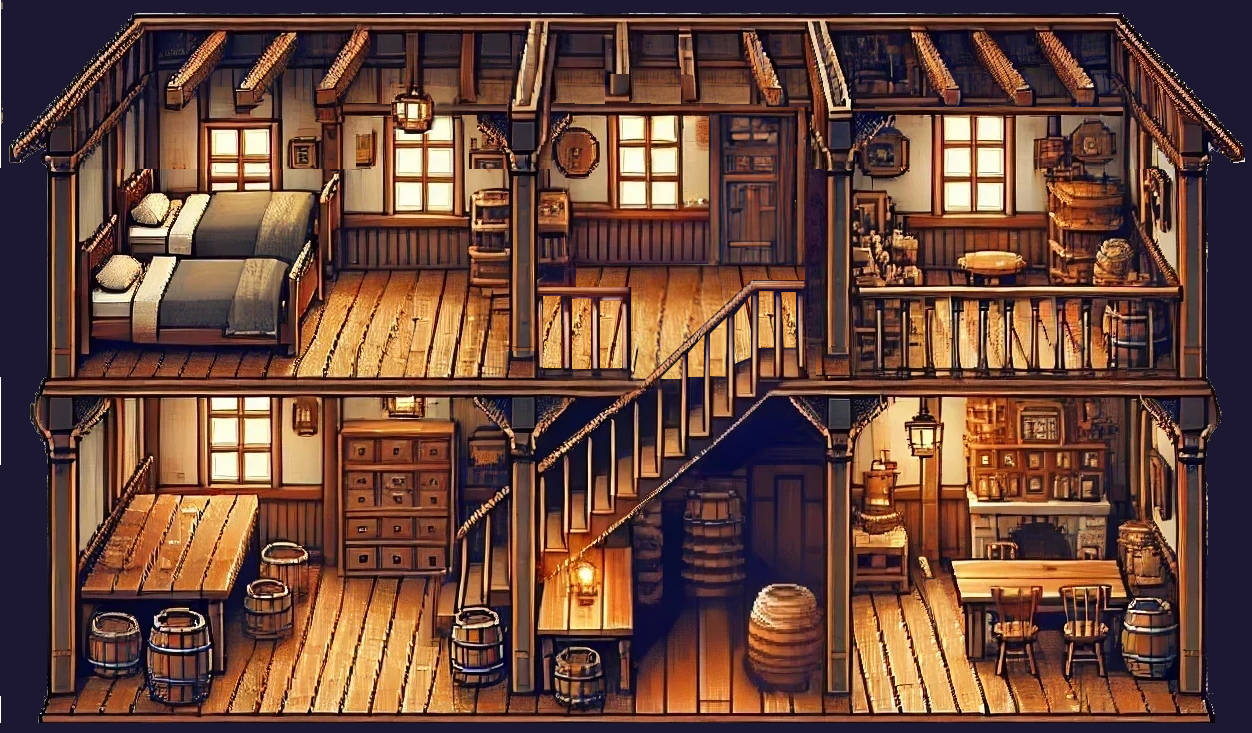
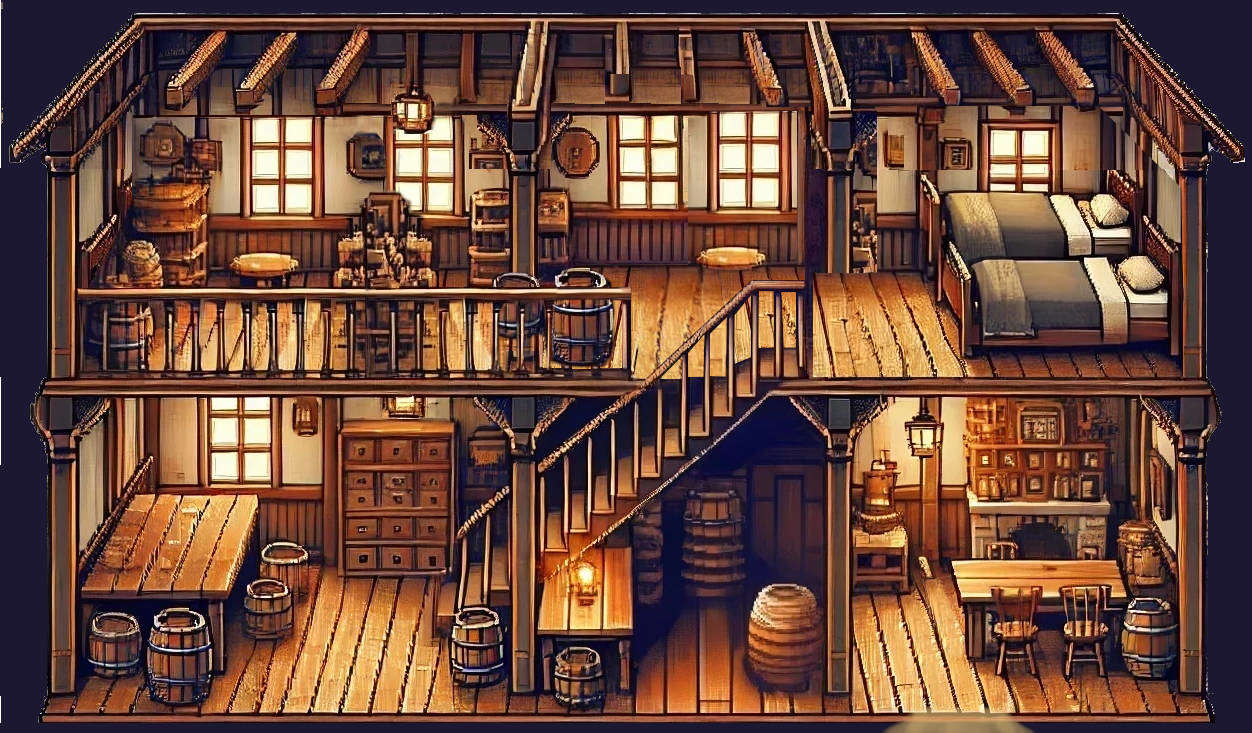
set up inn

diff --git a/src/data/background.ts b/src/data/background.ts
@@ -16,4 +16,5 @@ export const BackgroundData: Data[] = [
   { x: -2000, y: -1320, image: 'mansion_inside', location: Location.MansionInside, skipLighting: true },
   { x: -3200, y: 1300, image: 'alchemy_lab', location: Location.AlchemyLab, scale: 0.9, skipLighting: true },
   { x: 1600, y: -950, image: 'town_hall', location: Location.TownHall, skipLighting: true },
+  { x: 1600, y: -1850, image: 'inn', location: Location.Inn, skipLighting: true },
 ];

diff --git a/src/data/warp.ts b/src/data/warp.ts
@@ -196,4 +196,19 @@ export const WarpData: Record<WarpType, Data> = {
     warpTo: WarpType.TownHallEntrance,
     visual: WarpVisual.Warp,
   },
+
+  [WarpType.InnEntrance]: {
+    x: 1300,
+    y: 650,
+    key: Key.Up,
+    warpTo: WarpType.Inn,
+    visual: WarpVisual.Invisible,
+  },
+  [WarpType.Inn]: {
+    x: 2555,
+    y: -1180,
+    key: Key.Down,
+    warpTo: WarpType.InnEntrance,
+    visual: WarpVisual.Invisible,
+  },
 };

diff --git a/src/data/types.ts b/src/data/types.ts
@@ -80,6 +80,9 @@ export enum WarpType {
 
   TownHallEntrance,
   TownHall,
+
+  InnEntrance,
+  Inn,
 }
 
 export enum ItemType {
@@ -143,10 +146,12 @@ export enum PropType {
   LabPotionShelf1,
   MansionPicture,
   MansionHole,
+  Bed,
 }
 
 export enum HelperTextType {
   LabStairs,
+  InnStairs,
 }
 
 export enum Location {

diff --git a/src/data/slope.ts b/src/data/slope.ts
@@ -22,4 +22,7 @@ export const SlopeData: Data[] = [
   { x: -1710, y: 1577, width: 280, height: 190, upwards: true },
   { x: -1020, y: 1697, width: 200, height: 70 },
   { x: -2570, y: 1728, width: 200, height: 40, flip: true },
+
+  // Inn
+  { x: 1980, y: -1495, width: 360, height: 350, upwards: true },
 ];

diff --git a/src/data/helperText.ts b/src/data/helperText.ts
@@ -19,4 +19,13 @@ export const HelperTextData: Record<HelperTextType, Data> = {
     },
     text: 'Press [UP] to go upstairs',
   },
+  [HelperTextType.InnStairs]: {
+    x: 2000,
+    y: -1105,
+    size: {
+      x: 80,
+      y: 80,
+    },
+    text: 'Press [UP] to go upstairs',
+  },
 };

diff --git a/src/data/wall.ts b/src/data/wall.ts
@@ -49,4 +49,9 @@ export const WallData: Data[] = [
   // Town Hall
   { x: 1620, y: -350 },
   { x: 2520, y: -350 },
+
+  // Inn
+  { x: 1790, y: -1245 },
+  { x: 2790, y: -1245 },
+  { x: 2765, y: -1580 },
 ];

diff --git a/src/data/prop.ts b/src/data/prop.ts
@@ -66,4 +66,9 @@ export const PropData: Record<PropType, Data> = {
     x: -1870,
     y: -490,
   },
+  [PropType.Bed]: {
+    x: 2670,
+    y: -1530,
+    scale: { x: 7, y: 2 },
+  },
 };
